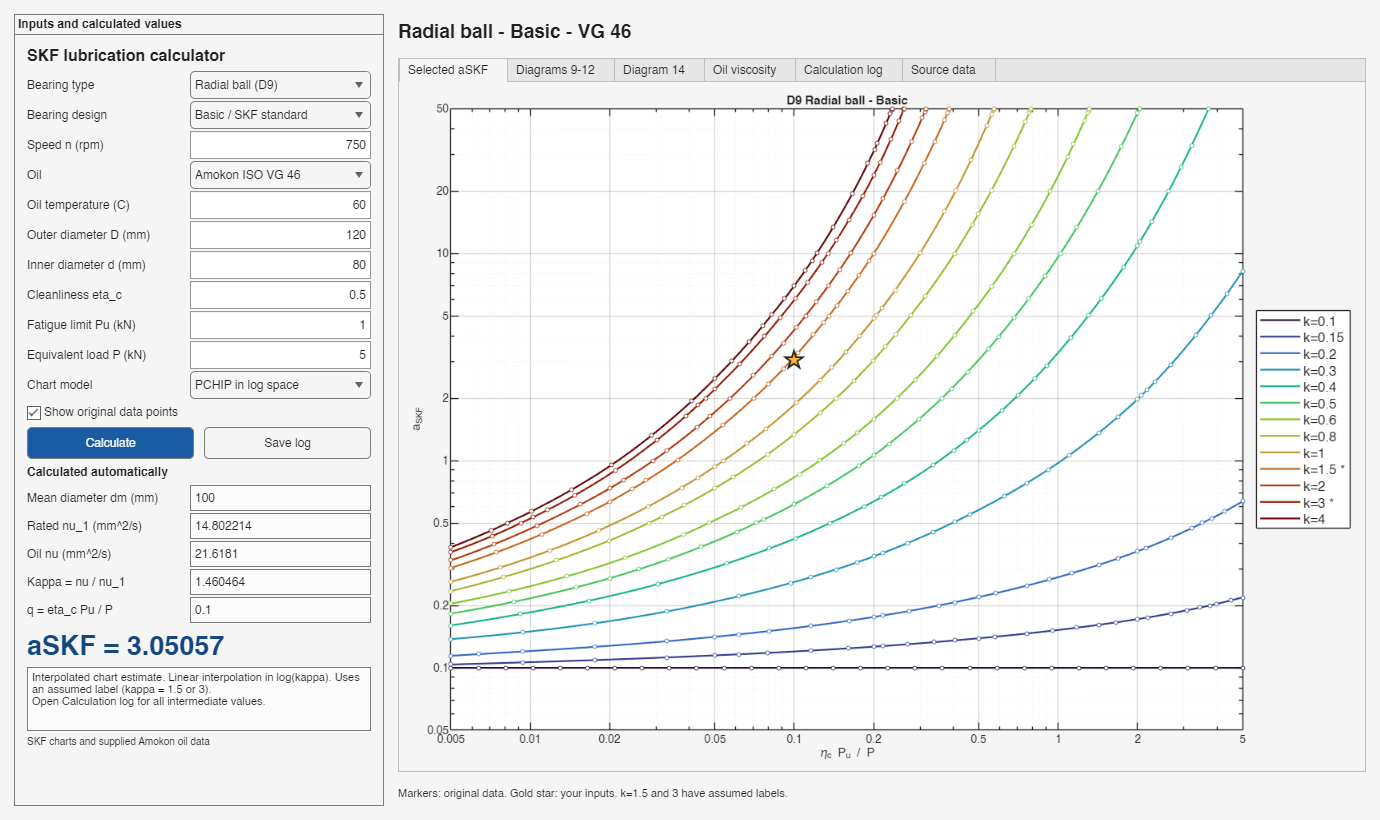
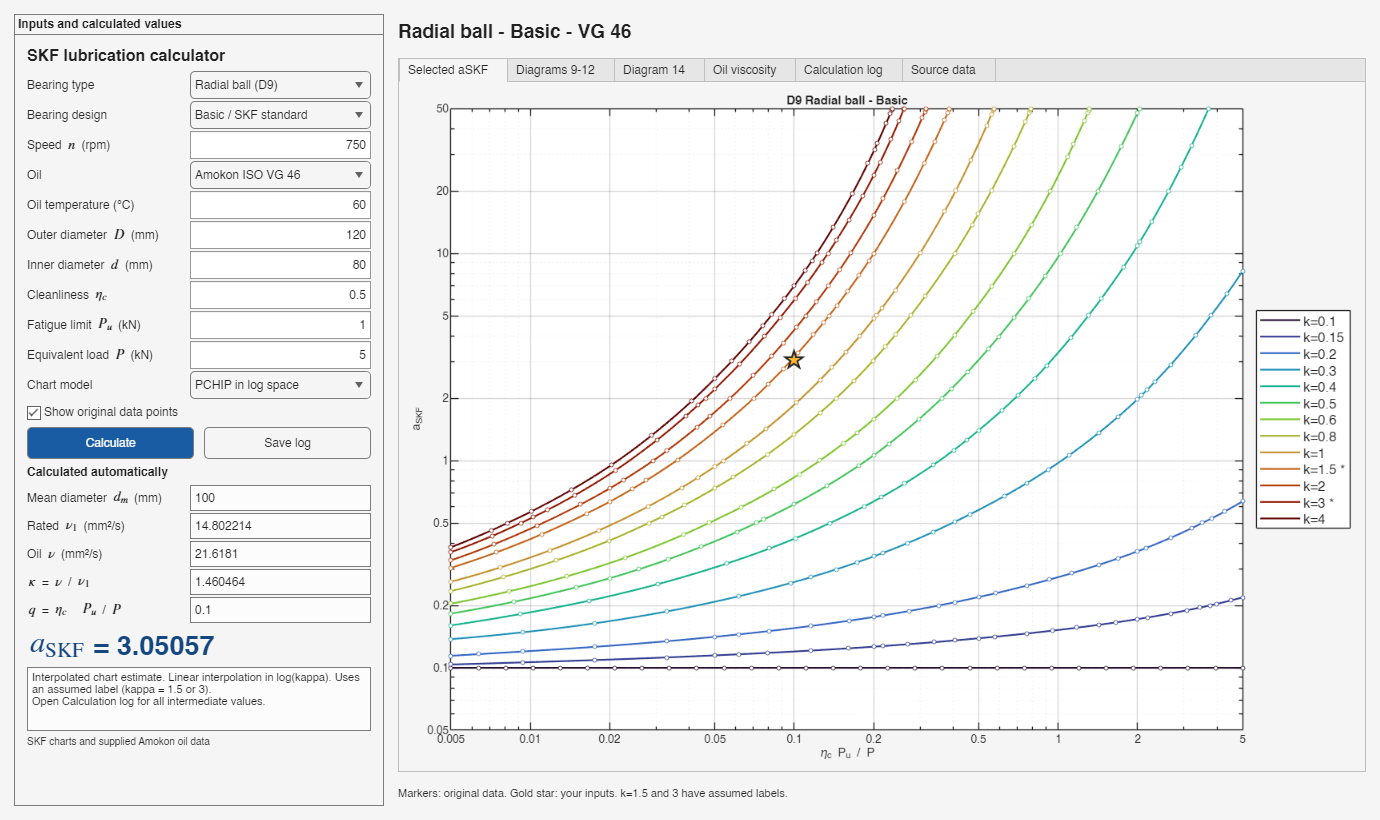
Render mathematical symbols with LaTeX while preserving UI text fonts

diff --git a/SKF_Life_App.m b/SKF_Life_App.m
@@ -24,15 +24,15 @@ bearing=uidropdown(g,'Items',{'Radial ball (D9)','Radial roller (D10)','Thrust b
 label('Bearing design',3,1,12,false);
 design=uidropdown(g,'Items',{'Basic / SKF standard','SKF Explorer'}, ...
     'ItemsData',{'Basic','Explorer'},'Value','Basic');place(design,3,2);
-speed=input('Speed n (rpm)',4,750,[2 100000]);
+speed=input('Speed $n$ (rpm)',4,750,[2 100000]);
 label('Oil',5,1,12,false);
 oil=uidropdown(g,'Items',{O.name},'ItemsData',[O.grade],'Value',46);place(oil,5,2);
-temperature=input('Oil temperature (C)',6,60,[-273.14 Inf]);
-outer=input('Outer diameter D (mm)',7,120,[eps Inf]);
-inner=input('Inner diameter d (mm)',8,80,[eps Inf]);
-eta=input('Cleanliness eta_c',9,.5,[eps 1]);
-Pu=input('Fatigue limit Pu (kN)',10,1,[eps Inf]);
-P=input('Equivalent load P (kN)',11,5,[eps Inf]);
+temperature=input('Oil temperature (°C)',6,60,[-273.14 Inf]);
+outer=input('Outer diameter $D$ (mm)',7,120,[eps Inf]);
+inner=input('Inner diameter $d$ (mm)',8,80,[eps Inf]);
+eta=input('Cleanliness $\eta_c$',9,.5,[eps 1]);
+Pu=input('Fatigue limit $P_u$ (kN)',10,1,[eps Inf]);
+P=input('Equivalent load $P$ (kN)',11,5,[eps Inf]);
 label('Chart model',12,1,12,false);
 model=uidropdown(g,'Items',{'PCHIP in log space','Original PDF vector','Linear in log space','MAKIMA in log space'}, ...
     'ItemsData',{'pchip','vector','linear','makima'},'Value','pchip');place(model,12,2);
@@ -41,12 +41,15 @@ bg=uigridlayout(g,[1 2]);place(bg,14,[1 2]);bg.Padding=[0 0 0 0];bg.ColumnWidth=
 calc=uibutton(bg,'Text','Calculate','BackgroundColor',[.1 .36 .64],'FontColor','white');
 saveLog=uibutton(bg,'Text','Save log');
 label('Calculated automatically',15,[1 2],12,true);
-dmField=output('Mean diameter dm (mm)',16);
-nu1Field=output('Rated nu_1 (mm^2/s)',17);
-nuField=output('Oil nu (mm^2/s)',18);
-kField=output('Kappa = nu / nu_1',19);
-qField=output('q = eta_c Pu / P',20);
-answer=uilabel(g,'Text','aSKF = --','FontSize',27,'FontWeight','bold','FontColor',[.08 .28 .5]);place(answer,21,[1 2]);
+dmField=output('Mean diameter $d_m$ (mm)',16);
+nu1Field=output('Rated $\nu_1$ (mm²/s)',17);
+nuField=output('Oil $\nu$ (mm²/s)',18);
+kField=output('$\kappa$ = $\nu$ / $\nu_1$',19);
+qField=output('$q$ = $\eta_c$ $P_u$ / $P$',20);
+answerGrid=uigridlayout(g,[1 2]);place(answerGrid,21,[1 2]);
+answerGrid.Padding=[0 0 0 0];answerGrid.ColumnSpacing=5;answerGrid.ColumnWidth={'fit','1x'};
+uilabel(answerGrid,'Text','$a_{\mathrm{SKF}}$','Interpreter','latex','FontSize',27,'FontColor',[.08 .28 .5]);
+answer=uilabel(answerGrid,'Text','= --','FontSize',27,'FontWeight','bold','FontColor',[.08 .28 .5]);
 notes=uitextarea(g,'Editable','off','FontSize',11,'Value',{'Loading...'});place(notes,22,[1 2]);
 label('SKF charts and supplied Amokon oil data',23,[1 2],10,false);
 speed.Tooltip='Diagram 14: rpm. Intermediate speeds are interpolated in log space.';
@@ -90,7 +93,20 @@ fig.SizeChangedFcn=@(~,~)layoutLegends();
     function result=getResult(),result=R;end
     function lines=getHistory(),lines=history;end
     function h=label(text,row,col,size,bold)
-        h=uilabel(g,'Text',text,'FontSize',size);if bold,h.FontWeight='bold';end
+        % Separate controls keep the UI font for prose and LaTeX only for symbols.
+        if contains(text,'$')
+            parts=regexp(text,'\$[^$]+\$|[^$]+','match');
+            h=uigridlayout(g,[1 numel(parts)]);
+            h.Padding=[0 0 0 0];h.ColumnSpacing=3;
+            h.ColumnWidth=repmat({'fit'},1,numel(parts));
+            for k=1:numel(parts)
+                part=uilabel(h,'Text',strtrim(parts{k}),'FontSize',size);
+                if contains(parts{k},'$'),part.Interpreter='latex';end
+                if bold,part.FontWeight='bold';end
+            end
+        else
+            h=uilabel(g,'Text',text,'FontSize',size);if bold,h.FontWeight='bold';end
+        end
         place(h,row,col);
     end
     function place(h,row,col),h.Layout.Row=row;h.Layout.Column=col;end
@@ -196,7 +212,11 @@ fig.SizeChangedFcn=@(~,~)layoutLegends();
         logArea.Value=cellstr(R.log);
         dmField.Value=number(R.dm);nu1Field.Value=number(R.nu1);nuField.Value=number(R.nu_oil);
         kField.Value=number(R.kappa);qField.Value=number(R.q);
-        if isfinite(R.aSKF),answer.Text=sprintf('aSKF = %.6g',R.aSKF);else,answer.Text='aSKF = unavailable';end
+        if isfinite(R.aSKF)
+            answer.Text=sprintf('= %.6g',R.aSKF);
+        else
+            answer.Text='= unavailable';
+        end
         names={'Radial ball','Radial roller','Thrust ball','Thrust roller'};
         heading.Text=sprintf('%s - %s - VG %d',names{bearing.Value-8},design.Value,oil.Value);
         notes.Value=cellstr([R.status;"Open Calculation log for all intermediate values."]);
